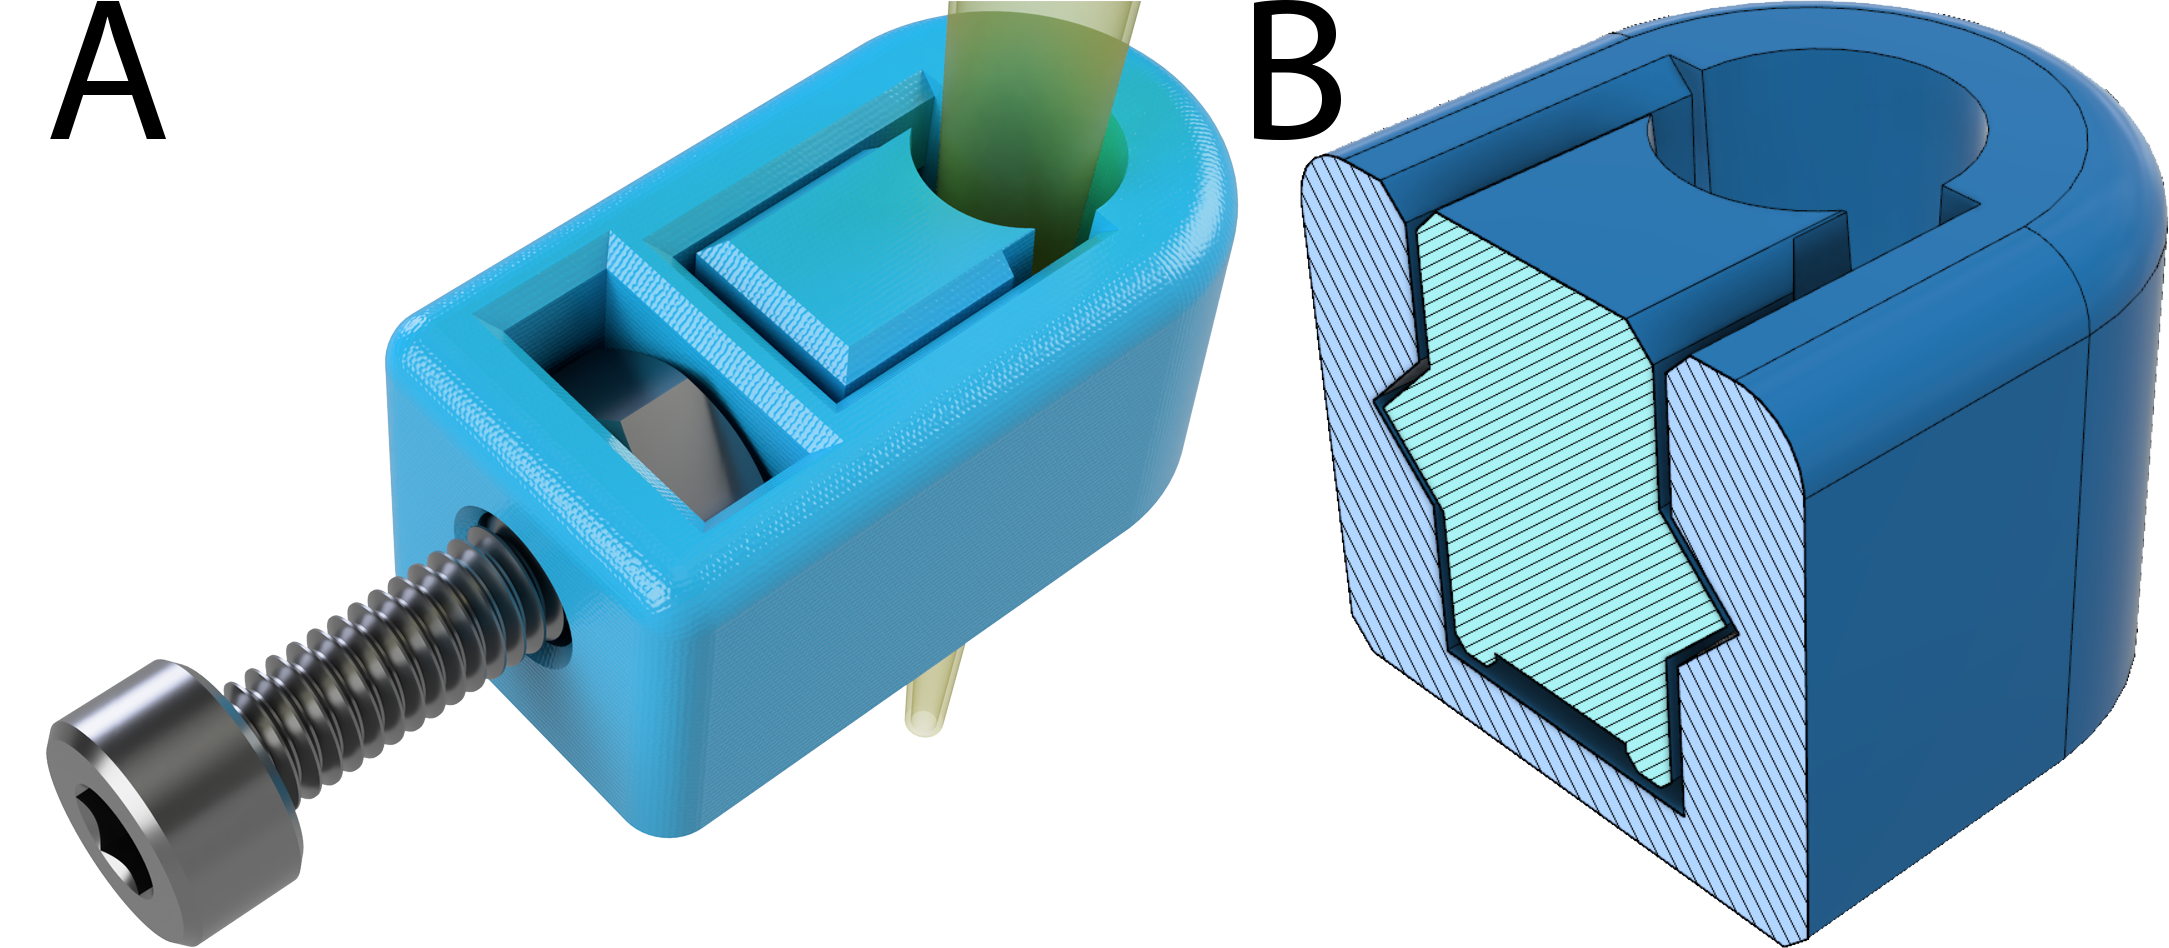
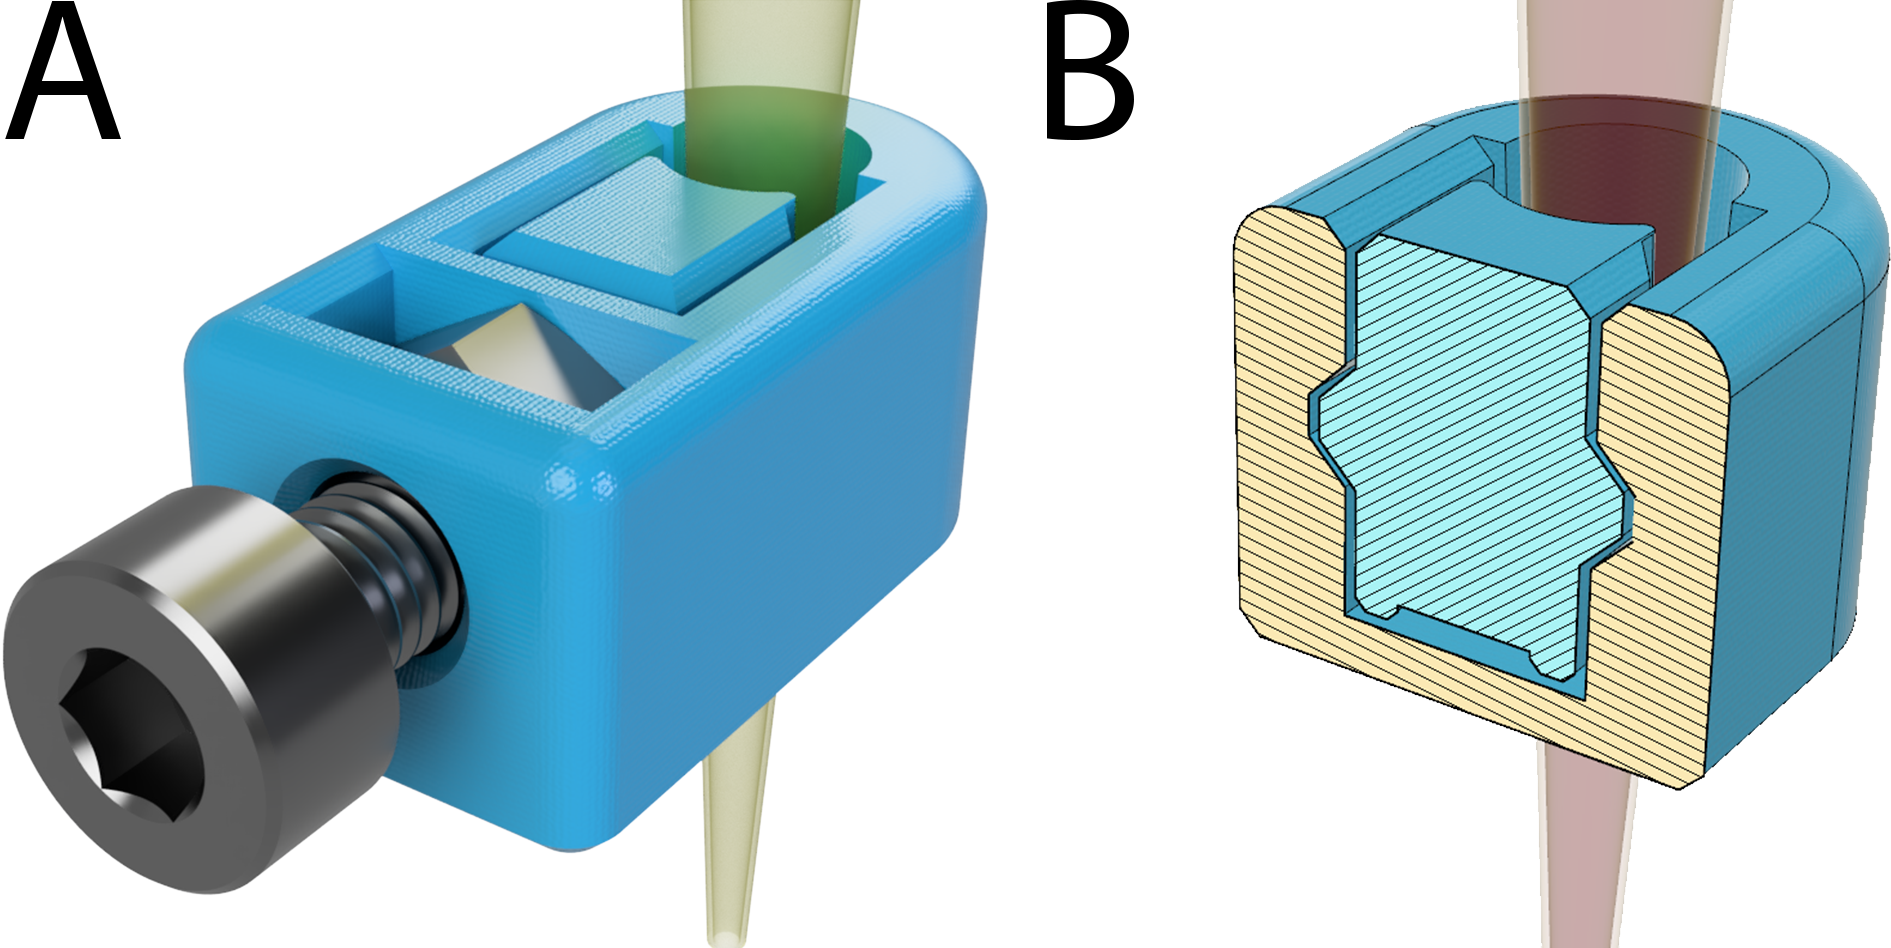
update skimmer to M3 hardware

diff --git a/source/hardware/build_guide.rst b/source/hardware/build_guide.rst
@@ -333,17 +333,17 @@ Skimmer Nozzle Clamp
 .. figure:: img/skimmer_clamp_parts.jpg
         :width: 400
 
-        Parts, from left to right: printed ``skimmer_clamp_M2.5.stl``, 
-        M2.5 hex nut, M2.5×8mm bolt.
+        Parts, from left to right: printed ``skimmer_clamp_M3.stl``, 
+        M3 hex nut, M3 bolt.
 
-1.	Insert the M2.5 hex nut and thread in the M2.5 bolt until finger tight.
+1.	Insert the M3 hex nut and thread in the M3 bolt until finger tight.
 
         .. figure:: img/skimmer_clamp_fingertight.jpg
                 :width: 300
 
 .. _nozzle-clamp-pip:
 
-2.	Using a 2 mm hex driver, tighten sharply until the slide breaks free,
+2.	Using a 2.5 mm hex wrench, tighten sharply until the slide breaks free,
         then continue until the clamp slide has moved through its entire range
         of motion (below, right).
 
@@ -460,8 +460,8 @@ Perfusion Plate Lid
                 skimmer P200, as in the figure above.
 
         e.	While holding the P200 in position, tighten the nozzle clamp
-                bolt using a 2 mm hex wrench until the P200 barrel deforms just
-                slightly.
+                bolt using a 2.5 mm hex wrench until the P200 barrel deforms
+                *slightly*.
 
         f.	Verify the skimmer nozzle position has not changed during
                 clamp tightening

diff --git a/source/hardware/design_files.rst b/source/hardware/design_files.rst
@@ -6,10 +6,10 @@ Design Files
     :widths: 25,25,25,25
     :header-rows: 1
 
-**skimmer_clamp_M2.5**
+**skimmer_clamp_M3**
     Print-in-place skimmer nozzle clamping mechanism. Fixed atop a drilled Nunc
     OmniTray lid to allow precise positioning of the skimmer nozzle tip height.
-    CAD files include modelled M2.5 fastener hardware as assembled.
+    CAD files include modelled M3 fastener hardware as assembled.
 **perfusion_lid_drill_jig**
     A guide for marking hole locations on Nunc® OmniTray® lids for drilling.
     Slides over top of the lid with holes for a fine-tipped marker.

diff --git a/source/hardware/bom.rst b/source/hardware/bom.rst
@@ -45,7 +45,7 @@ Required Tools
 * Soldering iron
 * Flux-core solder
 * Side cutters or similar (e.g. Knipex 78 61 125)
-* Hex wrenches, 2 mm and 2.5 mm
+* 2.5 mm hex wrench
 
 Optional Tools/Components
 ^^^^^^^^^^^^^^^^^^^^^^^^^
